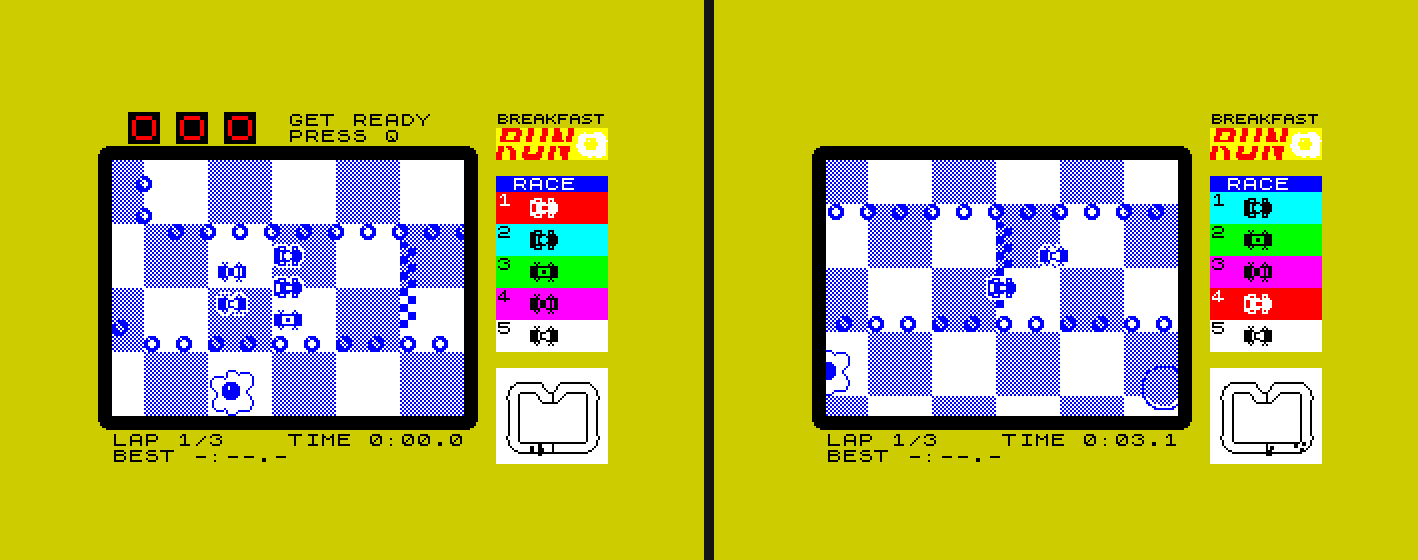
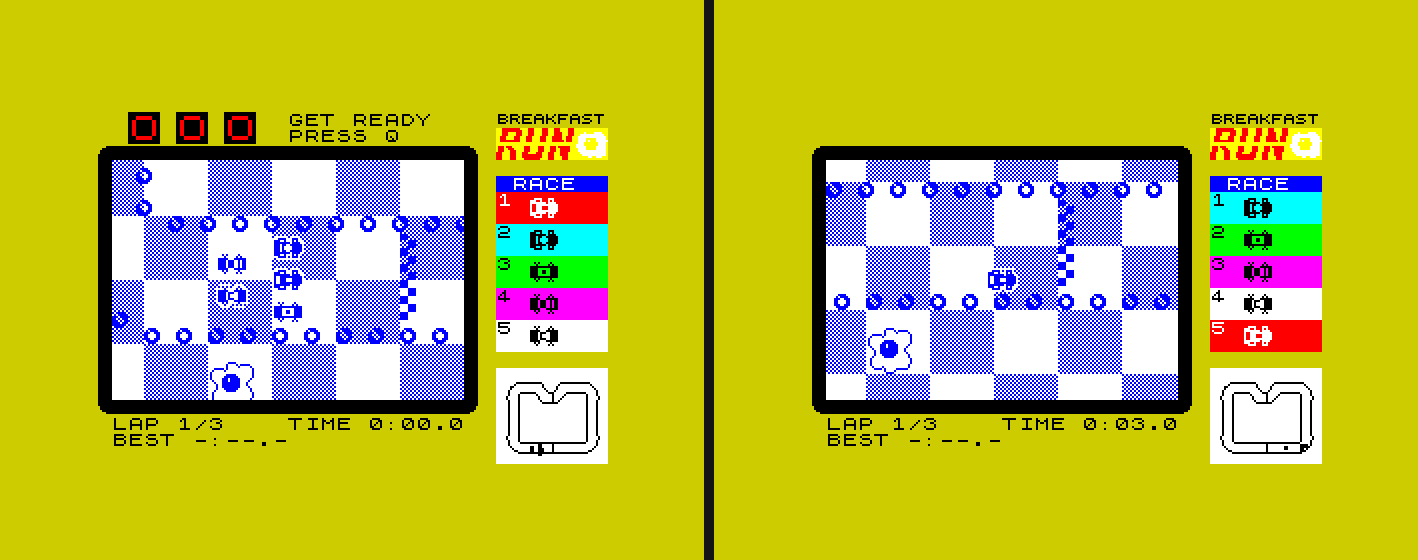
View one character row less: 120 lines, for a steadier 3 frames a picture
Claude-Session: https://claude.ai/code/session_01476U897R8mVFSH3iYyydqW

diff --git a/tests/drive_test.py b/tests/drive_test.py
@@ -97,10 +97,10 @@ def screen_text(sp, row, col, n):
 
 def frame_ok(sp):
     bits = screen_bits(sp)
-    top = bits[25:32, 5:187].all() and bits[160:167, 5:187].all()     # 7-px bands
-    sides = bits[29:163, 1:8].all() and bits[29:163, 184:191].all()
-    corners = not bits[25, 1:5].any() and not bits[166, 187:191].any() and bits[25, 5] and bits[28, 2]
-    outside = not bits[24, 0:192].any() and not bits[167, 0:192].any() and not bits[25:167, 0].any() and not bits[25:167, 191].any()
+    top = bits[25:32, 5:187].all() and bits[152:159, 5:187].all()     # 7-px bands
+    sides = bits[29:155, 1:8].all() and bits[29:155, 184:191].all()
+    corners = not bits[25, 1:5].any() and not bits[158, 187:191].any() and bits[25, 5] and bits[28, 2]
+    outside = not bits[24, 0:192].any() and not bits[159, 0:192].any() and not bits[25:159, 0].any() and not bits[25:159, 191].any()
     return bool(top and sides and corners and outside)
 
 class Racer(Spectrum):
@@ -124,14 +124,14 @@ def at_copy_done(sp):
 
 def cloth(camx, camy):
     # the tablecloth: 32-px checks, the dark ones a 50% dither, locked to the table
-    y, x = np.mgrid[camy:camy + 128, camx:camx + 176]
+    y, x = np.mgrid[camy:camy + 120, camx:camx + 176]
     return ((((x >> 5) + (y >> 5)) & 1) == 1) & (((x + y) & 1) == 0)
 
 def window_bad(sp):
     at_copy_done(sp)
     camx, camy = g(sp, 'camx'), g(sp, 'camy')
-    bits = screen_bits(sp)[32:160, 8:184]            # the window: cells 1-22, rows 4-19
-    want = world[camy:camy + 128, camx:camx + 176] | cloth(camx, camy)
+    bits = screen_bits(sp)[32:152, 8:184]            # the window: cells 1-22, rows 4-18
+    want = world[camy:camy + 120, camx:camx + 176] | cloth(camx, camy)
     mask = np.ones_like(want, dtype=bool)
     for n in range(N):
         c = car(sp, n)
@@ -160,7 +160,7 @@ with Racer(headless=True) as sp:
     check((sb[8:32, 200:256] == np.array(logo)).all(), 'the BREAKFAST RUN logo is at the top of the panel')
     msg = screen_text(sp, 1, 12, 9) + '/' + screen_text(sp, 2, 12, 7)
     attr = lambda r, c: sp.read8(0x5800 + 32 * r + c)
-    labels = screen_text(sp, 21, 1, 3) + '/' + screen_text(sp, 21, 12, 4) + '/' + screen_text(sp, 22, 1, 4)
+    labels = screen_text(sp, 20, 1, 3) + '/' + screen_text(sp, 20, 12, 4) + '/' + screen_text(sp, 21, 1, 4)
     print('message bar %r  panel labels %r' % (msg, labels))
     check(msg == 'GET READY/PRESS Q', 'before the start: GET READY, PRESS Q in the message bar')
     check(labels == 'LAP/TIME/BEST', 'under the window: LAP, TIME and BEST')
@@ -184,7 +184,7 @@ with Racer(headless=True) as sp:
     check(all(car(sp, i)['x'] > CPU0X + 30 for i in CPUS), 'pressing Q started the race: all four computer cars set off')
     press(sp, 'Q', True); at_copy_done(sp); pc_ = car(sp, 0); press(sp, 'Q', False)
     cx, cy = pc_['x'] - g(sp, 'camx'), pc_['y'] - g(sp, 'camy')
-    check((cx, cy) == (80, 56), 'camera keeps your car exactly in the middle of the 176 x 128 window (%d,%d)' % (cx, cy))
+    check((cx, cy) == (80, 52), 'camera keeps your car exactly in the middle of the 176 x 120 window (%d,%d)' % (cx, cy))
 
     # ---- park your car in the infield and watch the computer race 90 s ----
     put(sp, 0, 40, 40)                        # top-left corner, well off the track
@@ -221,7 +221,7 @@ with Racer(headless=True) as sp:
     claps = [sp.read8(CARS + i * CS + 25) for i in CPUS]
     print('computer cars past the line', claps, 'race time', g(sp, 'race_time'))
     check(min(claps) >= 3, 'the computer cars\' laps are counted (%s)' % claps)
-    best = screen_text(sp, 22, 1, 23)
+    best = screen_text(sp, 21, 1, 23)
     print('best lap line %r' % best)
     check(best.startswith('BEST 0:1') and best[12:17].strip() in ('CYAN', 'GREEN', 'PINK', 'WHITE') and best[18:21] == 'LAP',
           'the best lap shows its time, the car that set it and the lap')
@@ -271,7 +271,7 @@ with Racer(headless=True) as sp:
     put(sp, 0, 250, 344, 16)
     hold(sp, ['Q'], 1.5)
     sp.run(duration=0.3, fast_forward=True)
-    again = screen_text(sp, 21, 1, 21)
+    again = screen_text(sp, 20, 1, 21)
     print('after crossing the line on lap 3:', repr(again), 'race_over', sp.read8(SYM['race_over']))
     check(sp.read8(SYM['race_over']) == 1 and attr(1, 0) == 0x57, 'crossing the line on the last lap: FINISHED in the message bar')
     check(again == 'PRESS Q TO RACE AGAIN', 'and PRESS Q TO RACE AGAIN under the window')

diff --git a/PROJECT-LOG.md b/PROJECT-LOG.md
@@ -324,3 +324,10 @@ Authoritative log for this workstream (house rule 5.2). Newest at the bottom. Ti
   15.0 15.1 14.9 17.4 s. RESULT: PASS.
 - Measured, whole lap: work 195.7k T a picture (was 203.4k): cloth 37.7k, tiles 51.6k, ticks 41.7k,
   copy 41.1k, cars 15.0k. 149 pictures at 3 frames, 57 at 4 (was 127 / 73).
+
+## 2026-11-09 21:52 SAST - one character row less of view (Grant's offer)
+- WIN_H 120 (was 128); BAND_Y = the text rows under the window, now rows 20-21 (were 21-22); camera
+  centre (80,52); 16 rows of tiles; 15 character rows of cloth; win_attr WIN_H/8. Asserts guard cf_tab.
+  drive_test updated (window slice, bezel, centre, text rows): RESULT PASS.
+- Measured, whole lap: work 187.0k T a picture (was 195.7k): tiles 49.3k, ticks 40.3k, copy 38.5k, cloth
+  35.2k, cars 15.2k. 179 pictures at 3 frames, 34 at 4 (was 149 / 57).
